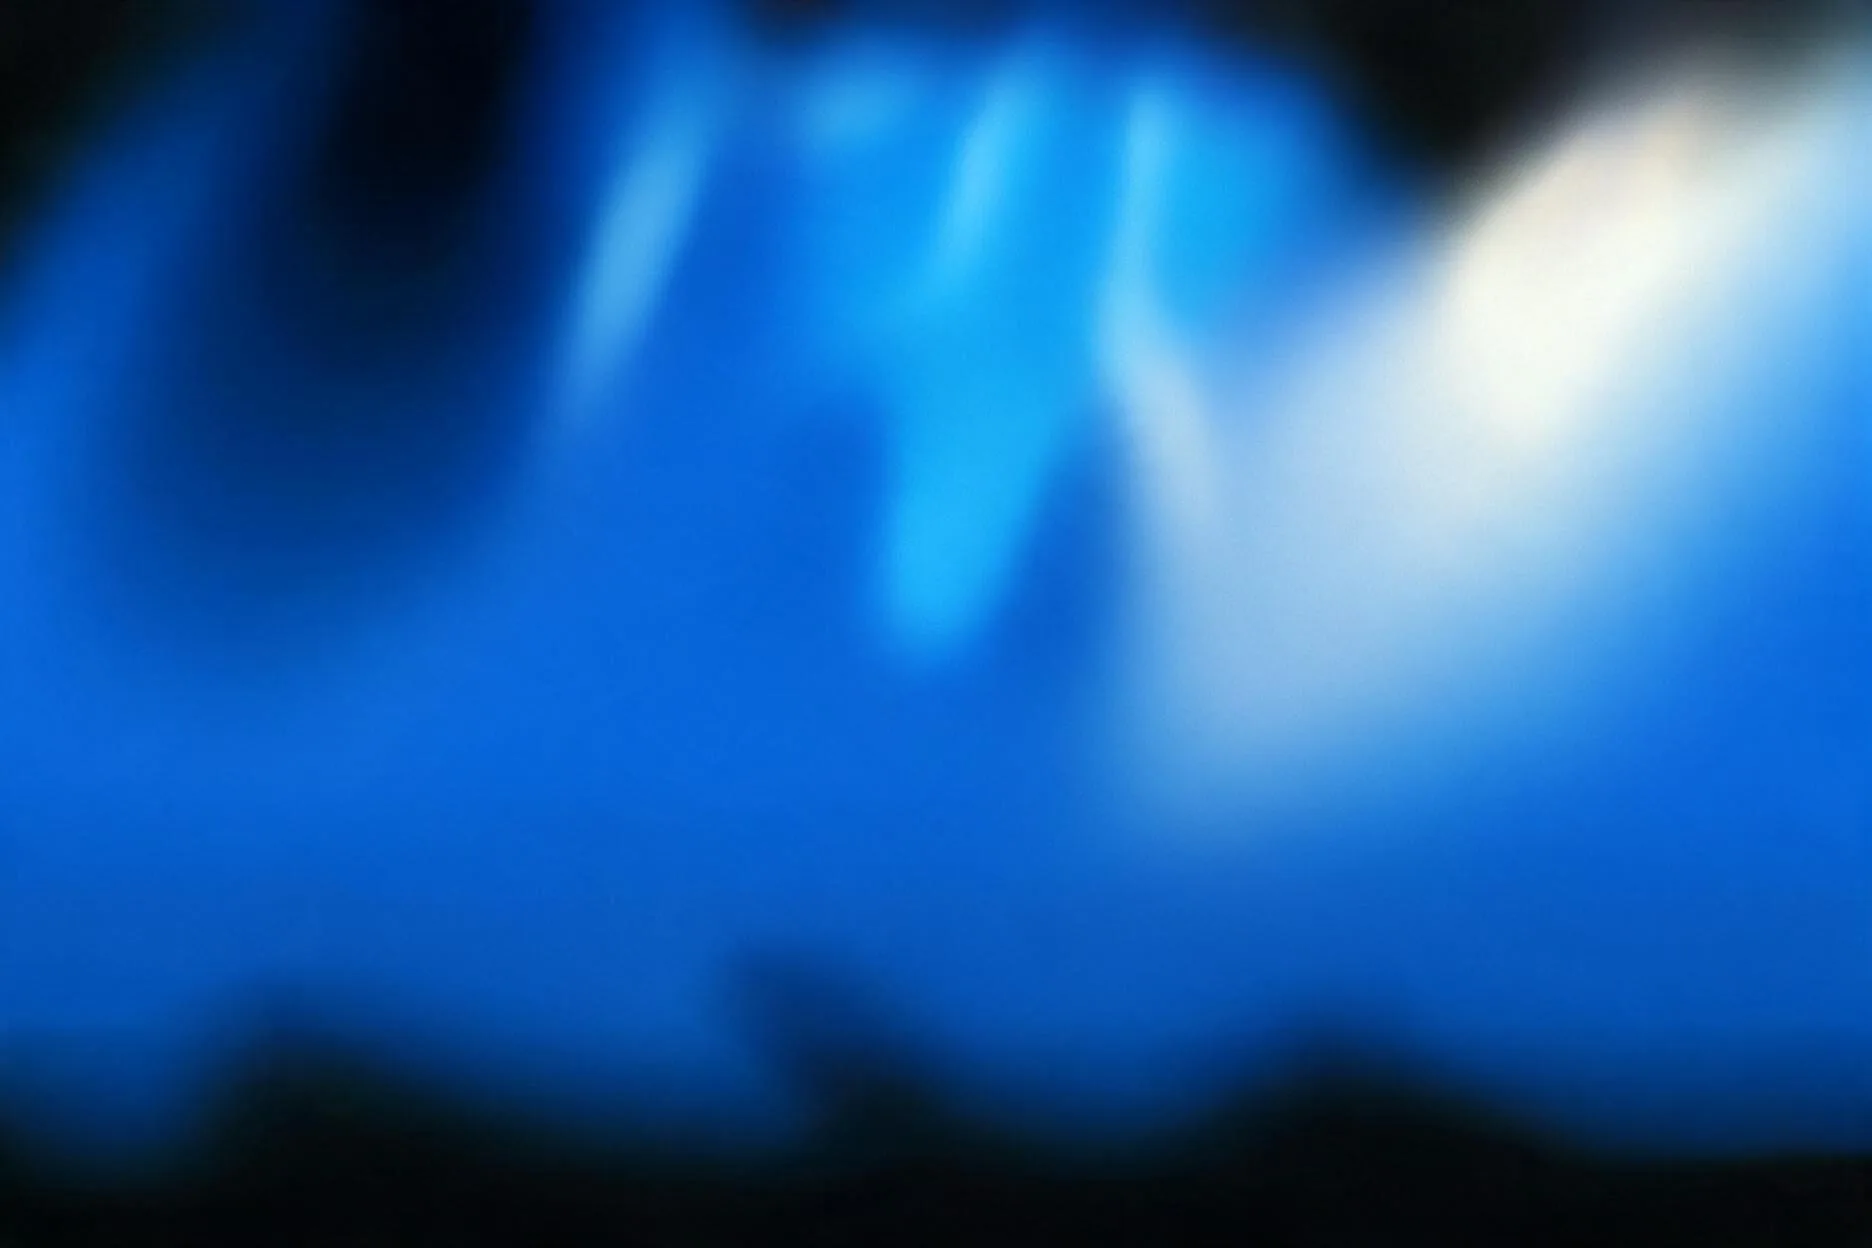
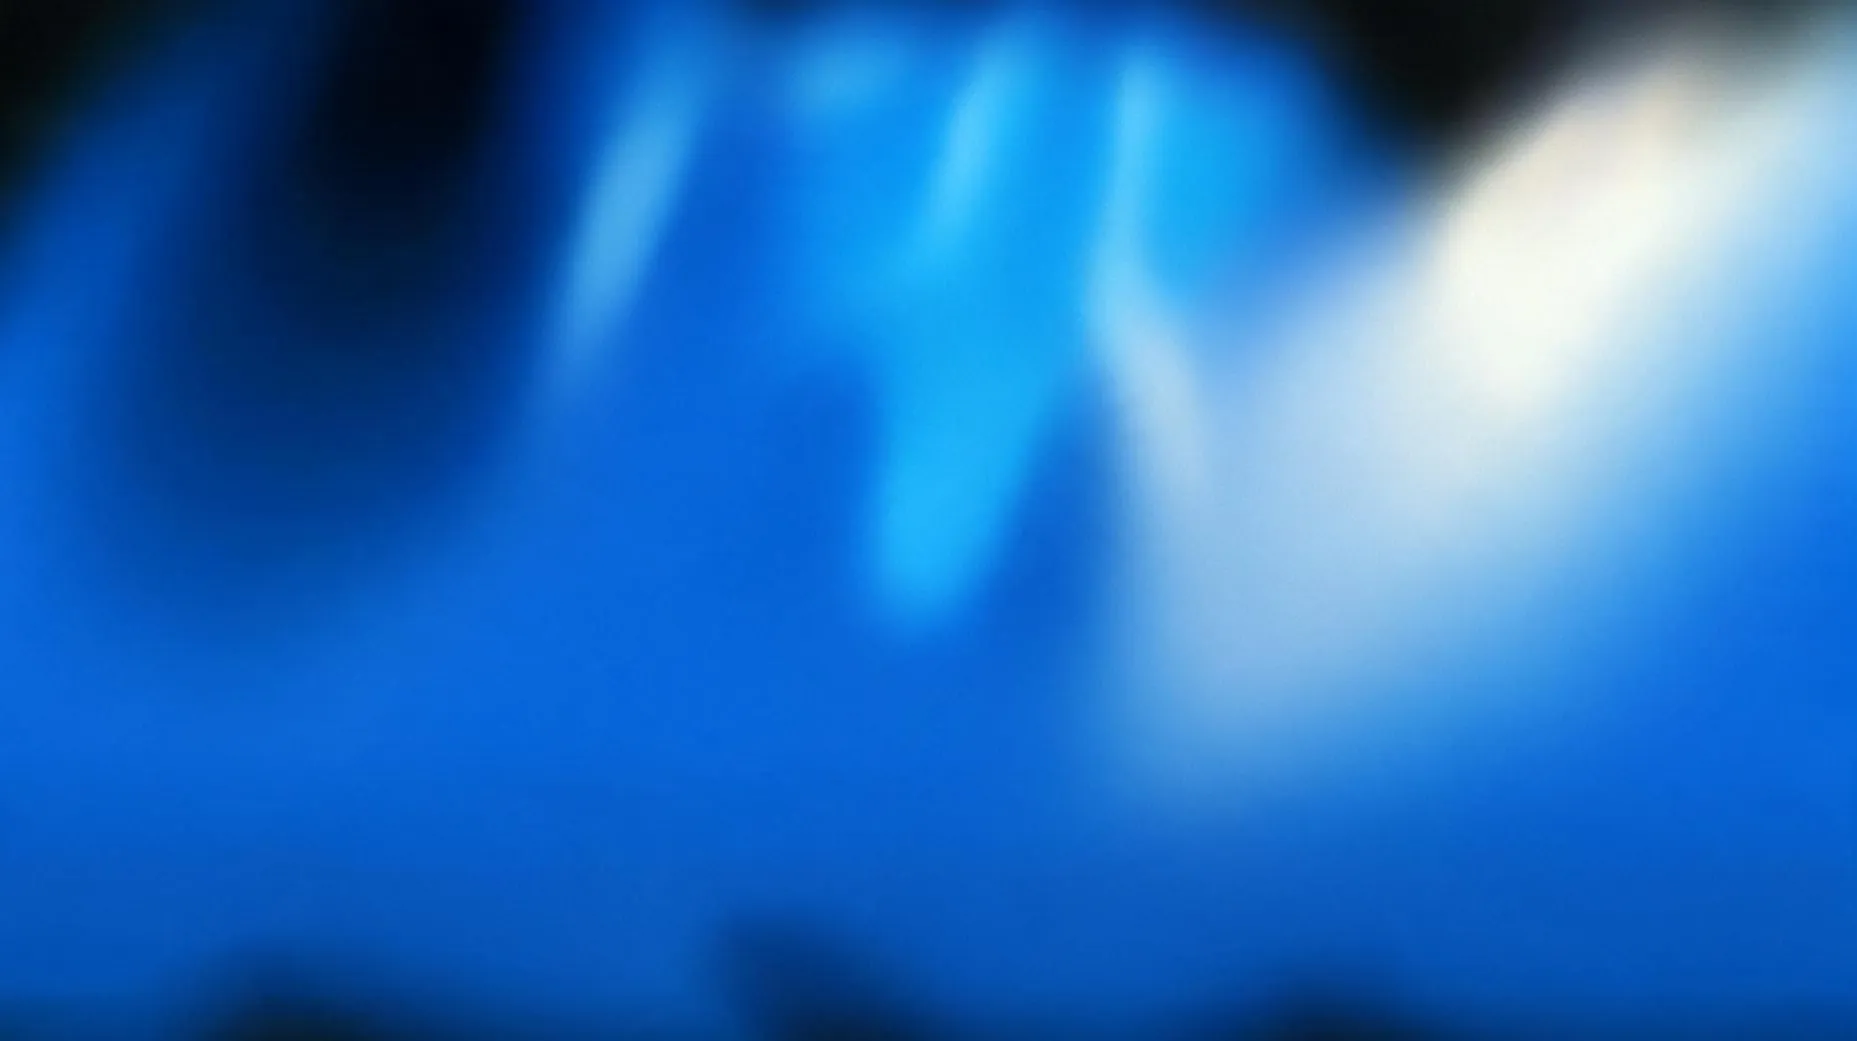
platform hero: extended-field aurora image (bright to the bottom, 25KB) — kills the bottom blur streak; crop back to centered cover on the 20%-oversized layer

diff --git a/marketing/platform.html b/marketing/platform.html
@@ -59,10 +59,10 @@ body { background: #000; font-family: 'Inter', sans-serif; overflow-x: hidden; }
     background: #000;
     padding: clamp(120px, 14vh, 180px) 0 clamp(72px, 8vh, 112px);
   }
-  /* aurora hero image (images/platform-hero.webp) on an oversized layer that
-     runs 20% past the section bottom — the photo's soft bottom edge (a streak
-     of linear blur) is cropped out of view instead of landing in the visible
-     band. Animated .hero-blob shafts ride on top. */
+  /* aurora hero image (images/platform-hero.webp — extended-field version,
+     bright to the bottom) on a layer 20% taller than the section, so the
+     photo's own bottom edge is always cropped out of view and the visible
+     band is pure aurora field. Animated .hero-blob shafts ride on top. */
   .hero-section::before {
     content: ''; position: absolute; left: 0; right: 0; top: 0; bottom: -20%;
     z-index: 0; pointer-events: none;
